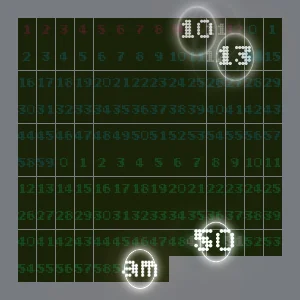
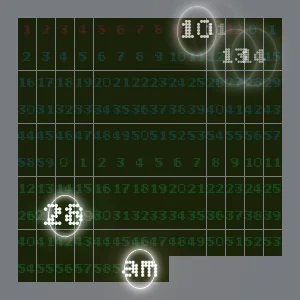
x

Changed region(s): [[0.69, 0.06, 0.93, 0.3], [0.12, 0.63, 0.33, 0.81], [0.6, 0.72, 0.81, 0.9]]

diff --git a/src/pages/2026/26-06/26-06-23/Clock.tsx b/src/pages/2026/26-06/26-06-23/Clock.tsx
@@ -15,11 +15,8 @@ import { memo, useMemo } from 'react';
 const CLOCK_CONFIG = {
   NUMERAL_RADIUS: 40,
   COLORS: {
-    background: '#000000A7',
     primary: '#0D1B40D8',
-    shadow: 'drop-shadow(2px 2px 0px rgba(242, 209, 188, 0.96))',
-    // decayHighlight: 'rgba(255, 149, 0, 0.77)',
-    // decayShadow: 'rgb(0, 0, 0)',
+    shadow: 'drop-shadow(1px 1px 0px rgba(242, 209, 188, 0.96))',
   },
 };
 
@@ -35,8 +32,8 @@ export const assets = [fontUrl, jumpVideo];
 
 
 const HAND_DIMENSIONS = {
-  hour: { width: '0.4vmin', height: '18vmin', zIndex: 3 },
-  minute: { width: '0.3vmin', height: '32vmin', zIndex: 4 },
+  hour: { width: '0.5vmin', height: '18vmin', zIndex: 3 },
+  minute: { width: '0.4vmin', height: '32vmin', zIndex: 4 },
   second: { width: '0.2vmin', height: '38vmin', zIndex: 5 },
 } as const;
 
@@ -170,10 +167,10 @@ const styles = {
     top: '50%',
     left: '50%',
     transform: 'translate(-50%, -50%)',
-    // opacity: 0.5,
     width: '100vmin',
     height: '100vmin',
     zIndex: 7,
+    opacity: 0.6,
     fontFamily: FONT_CONFIGS[0]!.fontFamily, // Aligned with config
 
   },